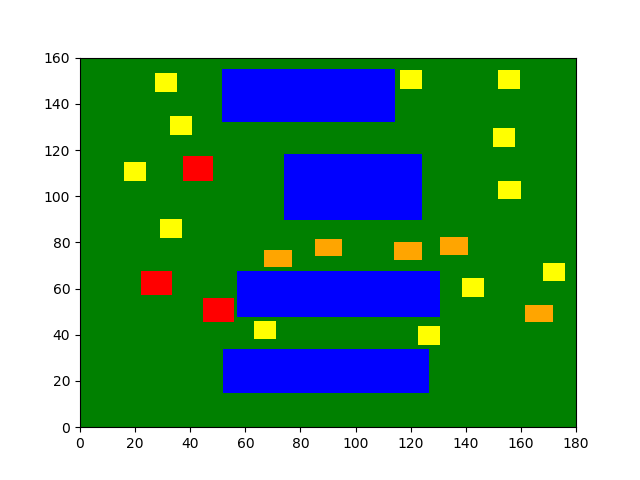
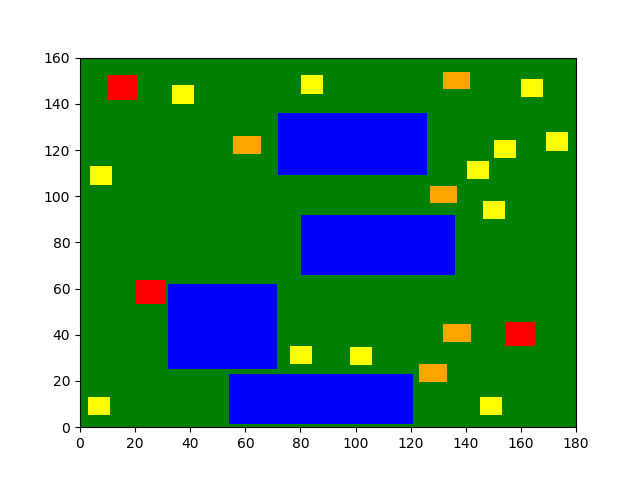
random

diff --git a/Classes/map.py b/Classes/map.py
@@ -158,7 +158,7 @@ class Map(object):
 		del self.houses[index]
 
 
-	def place_water_random(self, nr_water, index, loc):
+	def place_water_random(self, nr_water, index):
 		'''Places water on the map
 
 		Input arguments:
@@ -168,14 +168,13 @@ class Map(object):
 
 		i = 0
 
-		from __import__ import Water
+		from __import__ import Water, MAP_20
 
 		# allowed = False
 		tmp_list = []
 
         # create random x and y for water body
-		y = numpy.random.uniform((numpy.sqrt((self.water_prev
-											* self.width * self.height) * 4)), \
+		y = numpy.random.uniform((numpy.sqrt((self.water_prev * self.width * self.height) * 4)), \
 			numpy.sqrt(self.water_prev * self.width * self.height)) / nr_water
 
 		x = ((self.water_prev * self.width * self.height) / y) / nr_water
@@ -184,7 +183,12 @@ class Map(object):
 
 		index = i
 
-		new_water = Water(index, size)
+		loc = {'x' : numpy.random.uniform((0 + 0.5 * x), \
+				  	(MAP_20['width'] - 0.5 * x)), \
+			   'y' : numpy.random.uniform((0 + 0.5 * y), \
+		  			(MAP_20['height'] - 0.5 * y))}
+
+		new_water = Water(index, size, loc)
 
 		tmp_list.append(new_water)
 

diff --git a/Algorithms/helpers.py b/Algorithms/helpers.py
@@ -13,11 +13,11 @@ def random_generator(map_charac):
 
 	out_map = Map(map_charac)
 
-	i = 0
-	nr_water = 1
+	i = 1
+	nr_water = 4
 
 	while len(out_map.water) < 4:
-		out_map.place_water_random(i, nr_water)
+		out_map.place_water_random(nr_water, i)
 		i += 1
 
 	for i in range(len(out_map.construction)):
@@ -27,8 +27,8 @@ def random_generator(map_charac):
 		allowed = False
 		while allowed == False:
 
-			loc = {'x' : random.uniform(0, out_map.width),
-				   'y' : random.uniform(0, out_map.height)}
+			loc = {'x' : numpy.random.uniform(0, out_map.width),
+				   'y' : numpy.random.uniform(0, out_map.height)}
 
 			allowed = out_map.place_house(index, loc)
 
